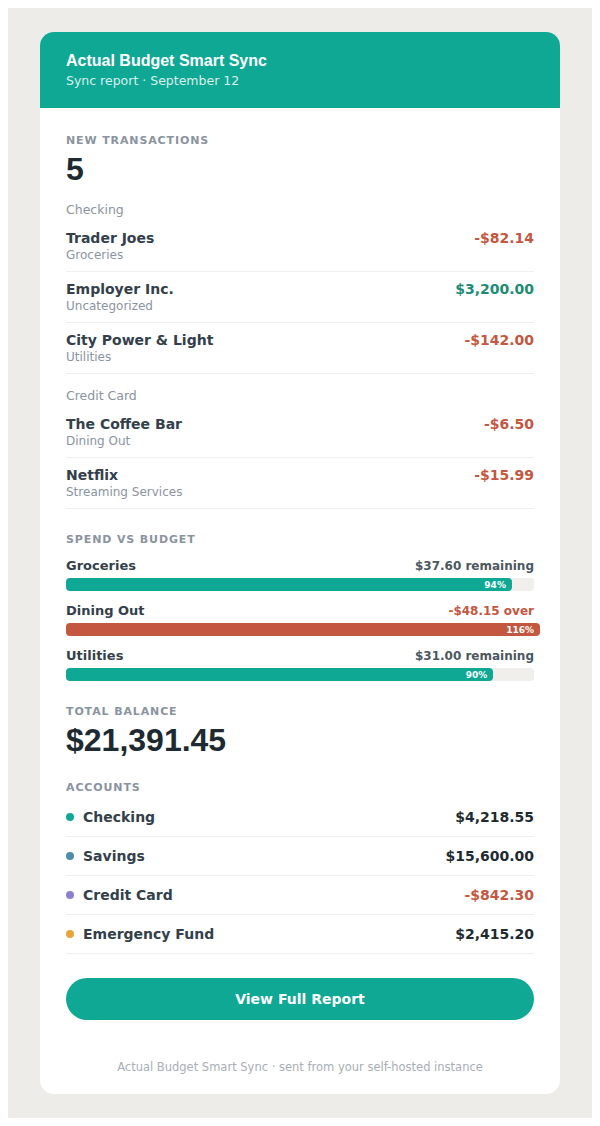
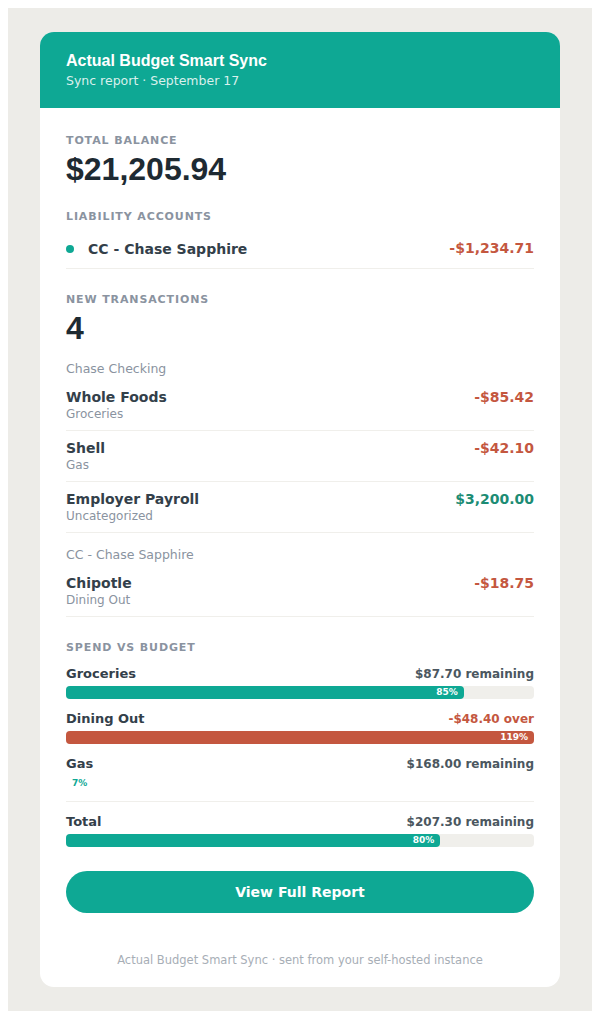
Refresh docs: README notes for recent fixes, updated email screenshot
Documents the generic email subject, the per-account sync issues
banner/email section, and category groups/Net Worth in README. Also
regenerates docs/screenshots/email-report.png against sample data to
reflect this session's email layout fixes (dot alignment, dollar
spacing, section reorder, near-zero percentage labels).

Claude-Session: https://claude.ai/code/session_01QkNCd8mj39BjPFx6Ys66d5

Changed region(s): [[0.06, 0.0304, 0.93, 0.9735], [0.75, 0.1825, 0.9, 0.3042], [0.78, 0.3651, 0.9, 0.4563]]

diff --git a/README.md b/README.md
@@ -17,7 +17,7 @@ This service is designed to run independently of your main Actual Budget server.
 
 ![Dashboard screenshot](https://raw.githubusercontent.com/adambeltz2/actualbudget-sync/main/docs/screenshots/dashboard.png)
 
-**Email report** — a sync summary with new transactions, budget status, and account balances, delivered straight to your inbox.
+**Email report** — a sync summary with new transactions, budget status, and account balances, delivered straight to your inbox. The subject line is always generic ("Actual Budget Sync: N New Transactions" or "Actual Budget Sync: Summary") so an inbox preview or lock-screen notification never reveals a connection issue before the email is opened.
 
 ![Email report screenshot](https://raw.githubusercontent.com/adambeltz2/actualbudget-sync/main/docs/screenshots/email-report.png)
 
@@ -103,6 +103,7 @@ docker compose up -d
 * Both registries are updated together on every push to `main`, so tags stay in sync — no need to worry about one being stale relative to the other.
 * The version shown in the dashboard footer bumps its patch number automatically on every release (CI commits the bump back to `main` before building the image) — no need to remember to update it by hand.
 * If the local sync cache under `./data` ever goes stale or corrupted relative to the server (rare — shows up in logs as `invalid fileId`, a JSON parse error, or similar), the app clears its own cache and retries automatically on the next sync or dashboard load. Your `config.json` in the same folder is never touched by this.
+* If one or more linked bank accounts fail to sync, every affected account (not just one) shows up in both the sync email's "Account Status" section (at the bottom of the email) and a dashboard "⚠ Account Sync Issues" banner, which persists across page reloads until the next successful sync.
 
 ## Data Explorer & Dashboard
 
